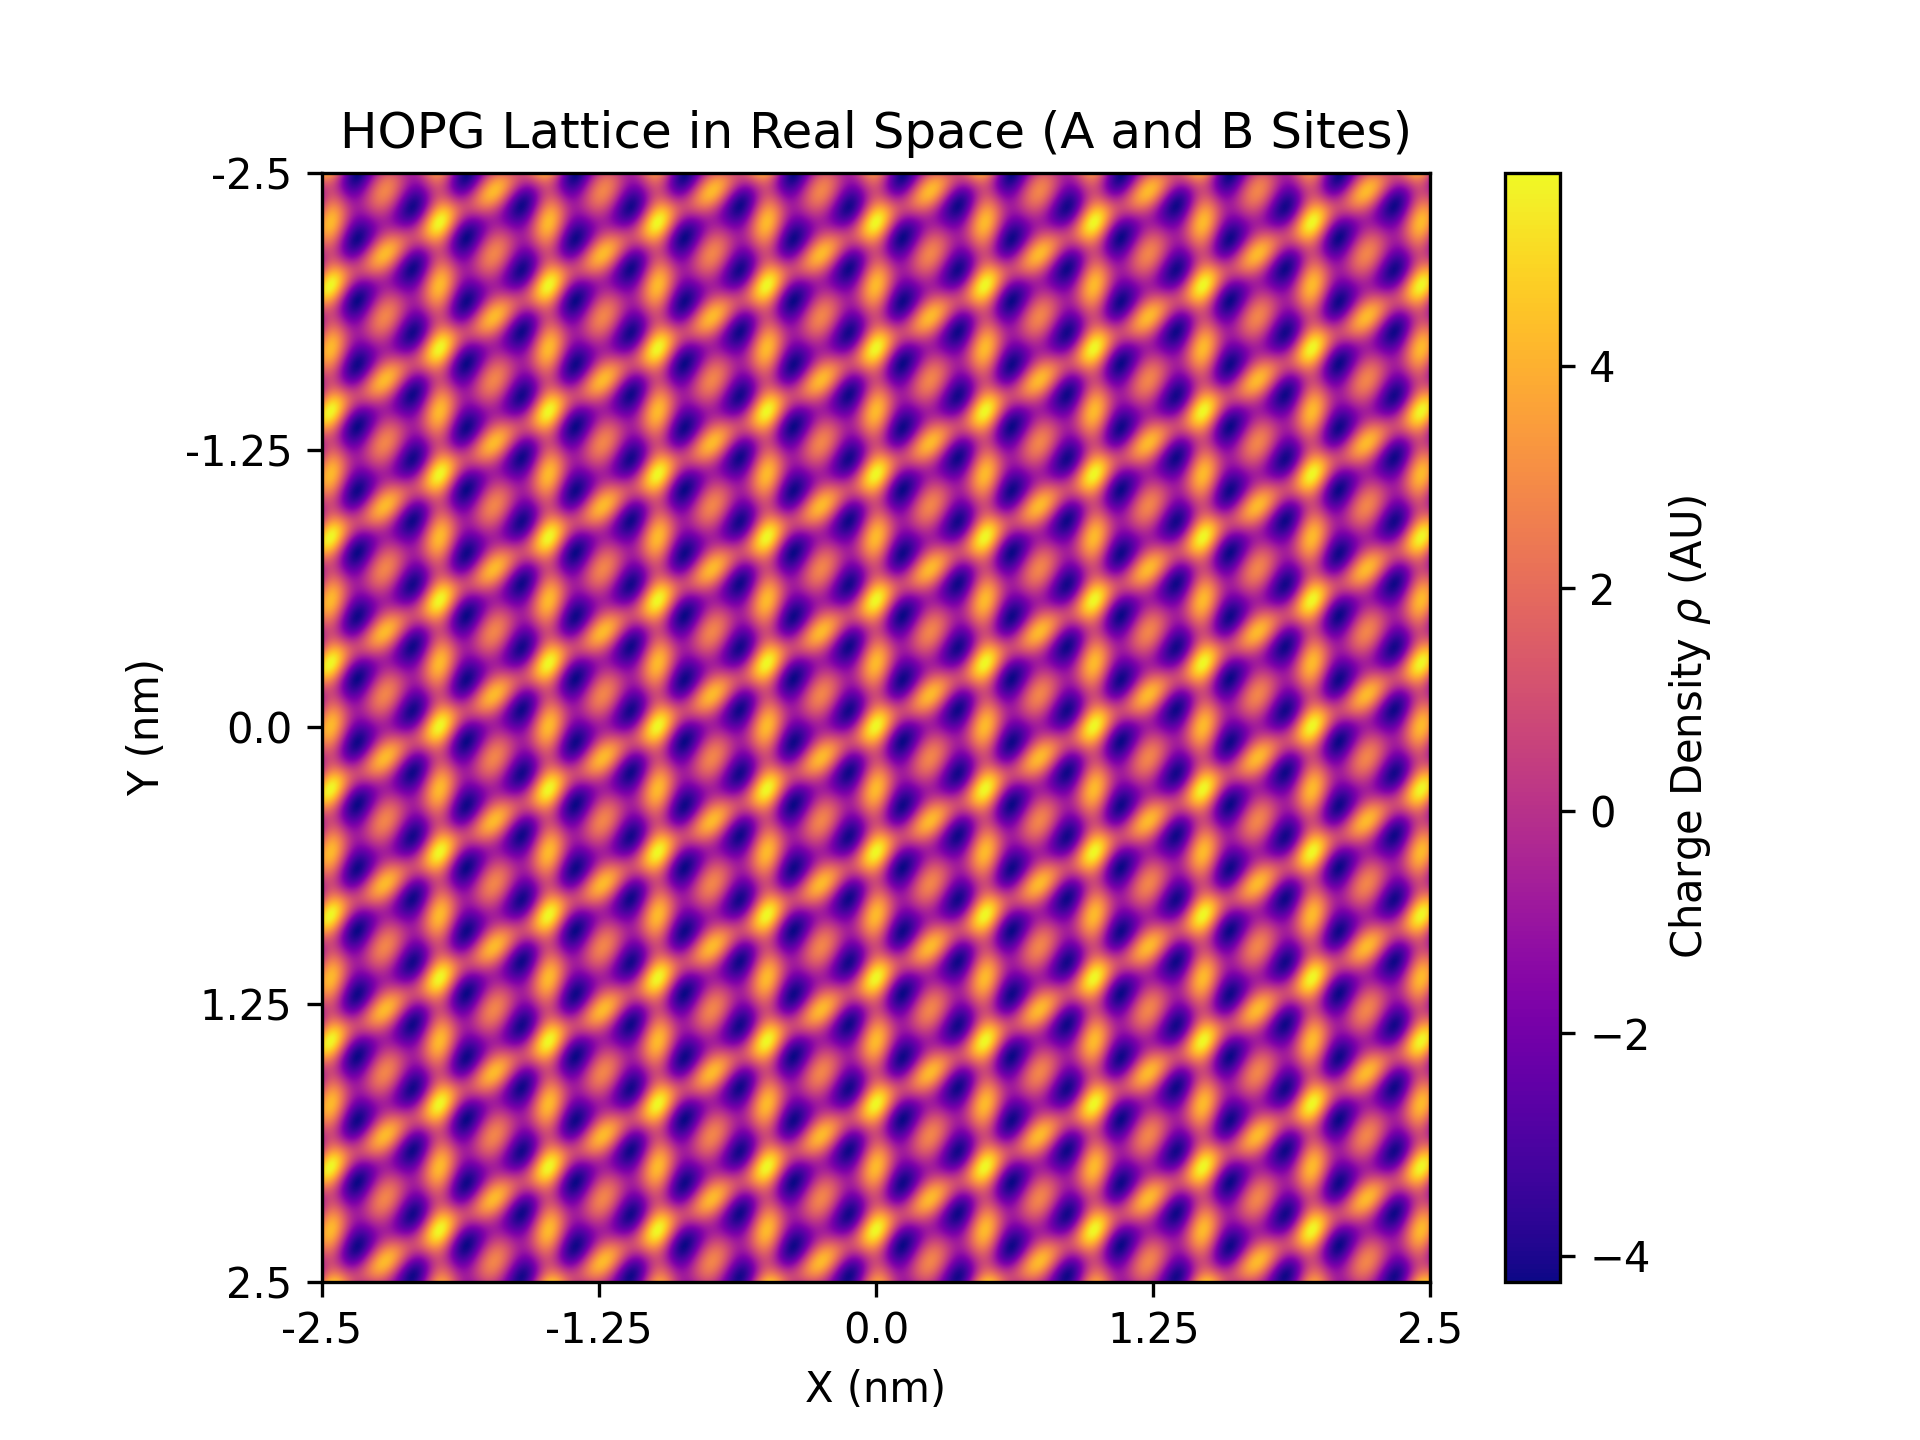
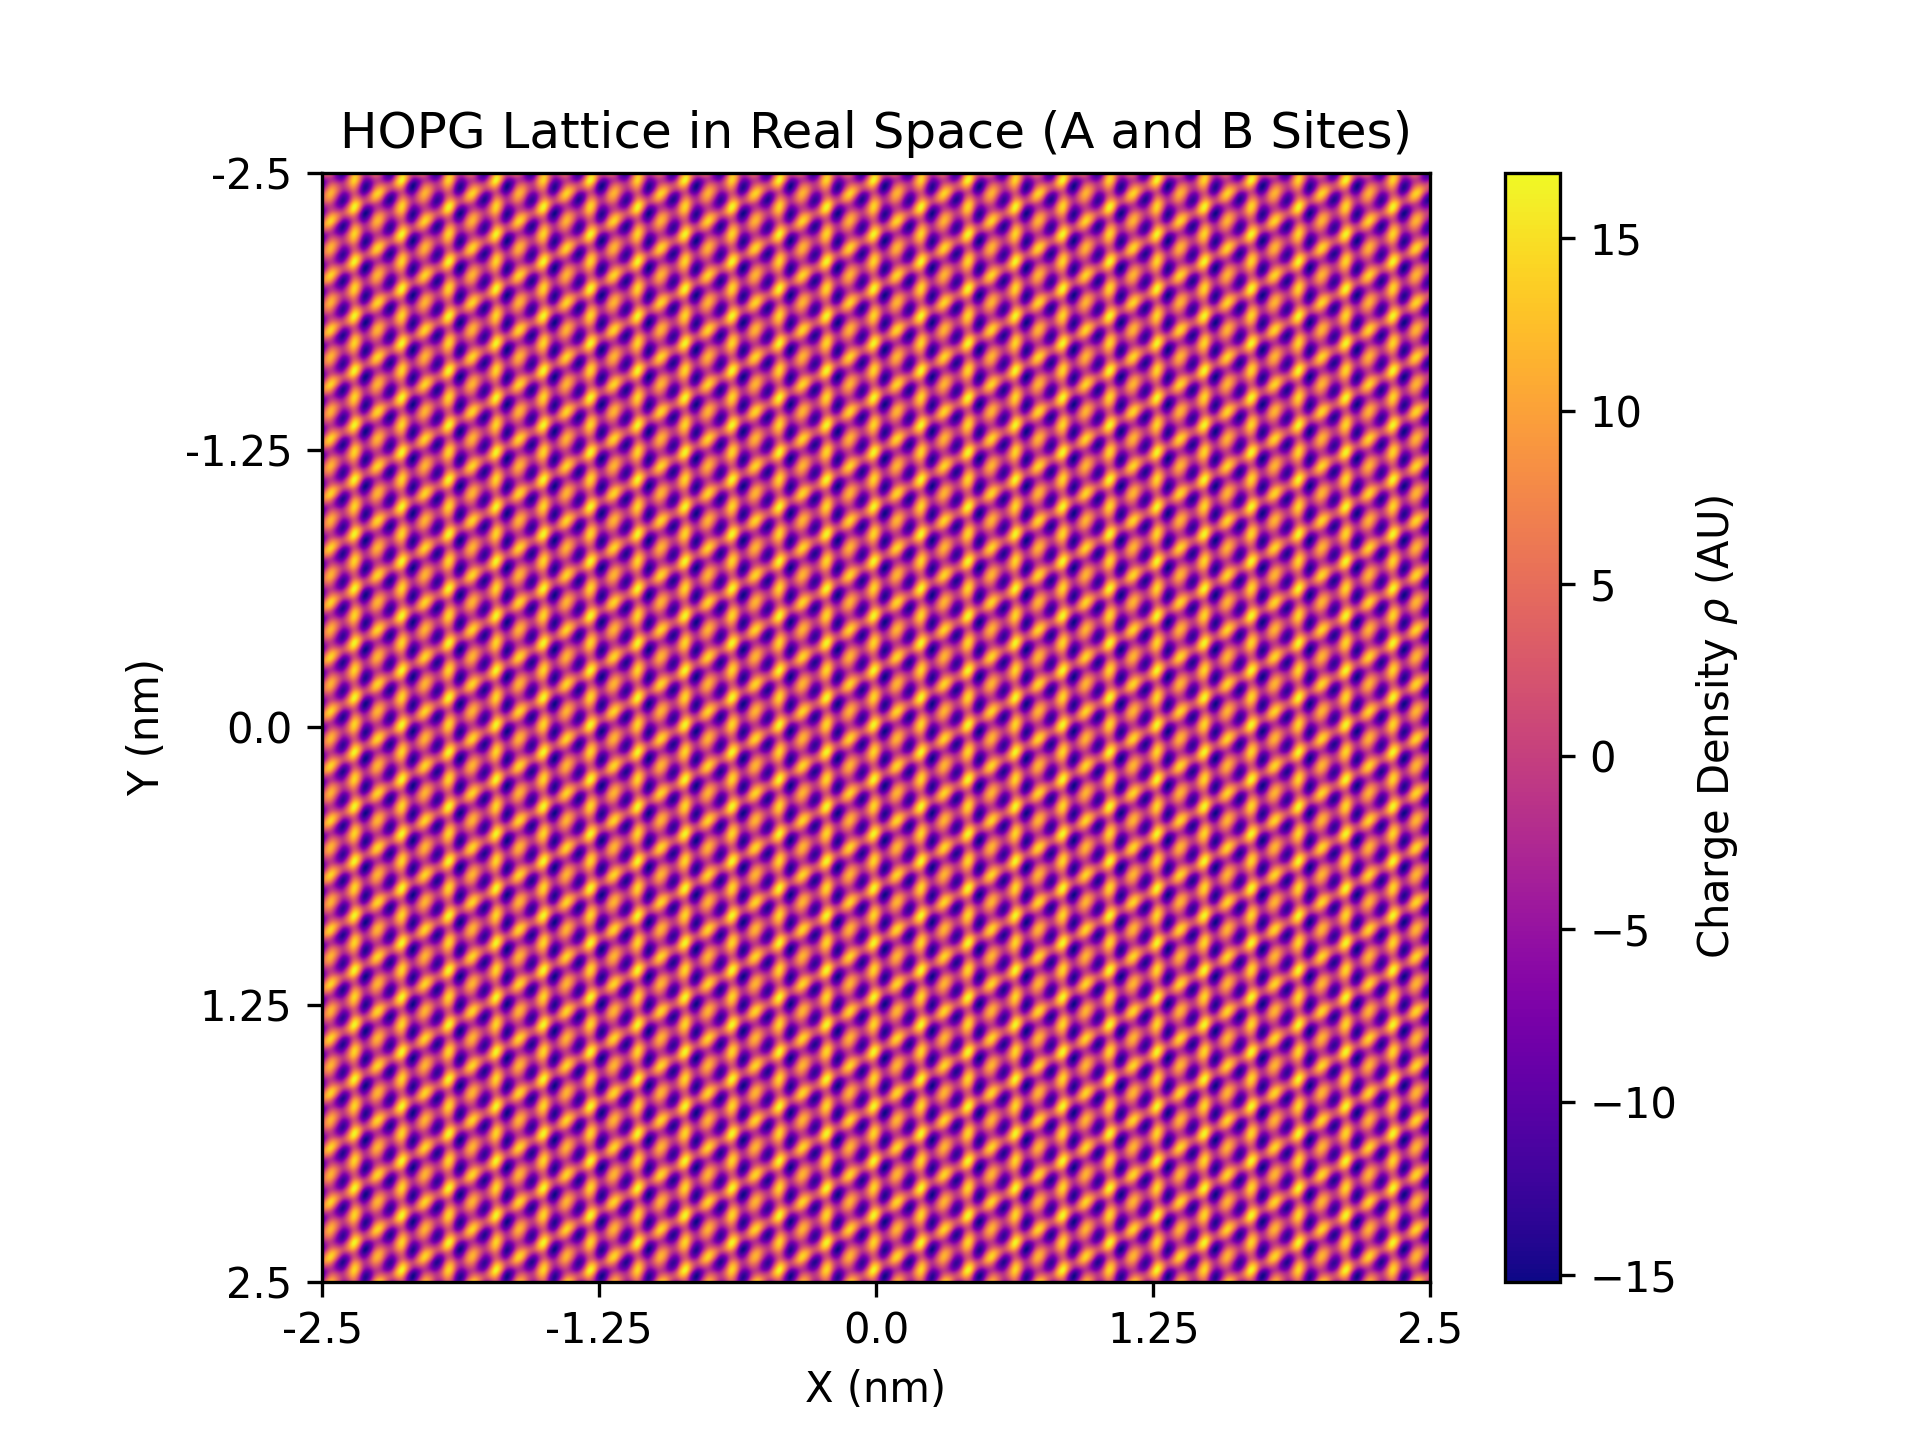
Added k-space evaluation and modified 2dfft

diff --git a/FFTSim.py b/FFTSim.py
@@ -32,8 +32,8 @@ def simulate_hopg_lattice(n_harmonics, k, theta, real_space_size,order,n):
         P = P_n[i]
         # A-site contribution
         lattice_real_space += P * (np.cos(kx1 * X + ky1 * Y) + np.cos(kx2 * X + ky2 * Y))
-        # B-site contribution 
-        lattice_real_space += P/10 * (np.cos(kx1 * X + ky1 * Y + np.pi/3) + np.cos(kx2 * X + ky2 * Y + np.pi/3))
+        # B-site contribution with a phase shift
+        lattice_real_space += P * (np.cos(kx1 * X + ky1 * Y + np.pi/2) + np.cos(kx2 * X + ky2 * Y + np.pi/2))
 
     sigma = 10  # standard deviation for Gaussian smoothing
     gaussian_envelope = np.exp(-(X**2 + Y**2) / (2 * sigma**2))
@@ -66,26 +66,28 @@ def simulate_hopg_lattice(n_harmonics, k, theta, real_space_size,order,n):
     # Compute 2D FFT for reciprocal space
     lattice_reciprocal_space = np.fft.fftshift(np.fft.fft2(lattice_real_space_smooth))
     magnitude_reciprocal = np.abs(lattice_reciprocal_space)
-
     # Plot reciprocal space (2D FFT result)
     plt.title("Reciprocal Space (2D FFT of HOPG Lattice)")
     plt.imshow(np.log(1 + magnitude_reciprocal), cmap='plasma')  # 1 + data for contrast
     kx = np.fft.fftshift(np.fft.fftfreq(n, d=(x[1] - x[0])))
     ky = np.fft.fftshift(np.fft.fftfreq(n, d=(y[1] - y[0])))
-    plt.xticks(ticks=np.linspace(0, n, 5), labels=np.round(np.linspace(kx[0], kx[-1], 5), 2))
-    plt.yticks(ticks=np.linspace(0, n, 5), labels=np.round(np.linspace(ky[0], ky[-1], 5), 2))
-    plt.xlabel("kx (1/nm)")
-    plt.ylabel("ky (1/nm)")
+
+    plt.xlabel(r"$k_x$ (1/nm)")
+    plt.ylabel(r"$k_y$ (1/nm)")
+    plt.xlim(n//2-50,n//2+50)
+    plt.ylim(n//2-50,n//2+50)
+    plt.xticks(ticks=np.linspace(n//2-50, n//2+50, 5), labels=np.round(np.linspace(kx[n//2-50], kx[n//2+50], 5), 1))
+    plt.yticks(ticks=np.linspace(n//2-50, n//2+50, 5), labels=np.round(np.linspace(ky[n//2-50], ky[n//2+50], 5), 1))
     plt.colorbar(label='Intensity (AU)')
     plt.savefig(f"Produced_Plots/FFTSIM/HOPG_Lattice_Reciprocal_Space_{real_space_size}nm.png", dpi=300)
     plt.show()
 
 
 # Constants for HOPG lattice
-a = 2*0.246  # lattice constant for graphene in nm
-k = 2 * np.pi / a  # wave vector
-n_pts = 2000 # size of the simulation grid
-real_space_size = 5 # nm
+a = 0.246  # lattice constant for graphene in nm
+k = 4 * np.pi / (a*np.sqrt(3))  # wave vector
+n_pts = 1000 # size of the simulation grid
+real_space_size = 2 # nm
 theta = np.pi / 3  
-n_harmonics = 15  # number of harmonics to include in the lattice
-simulate_hopg_lattice(n_harmonics, k, theta, real_space_size,2,n_pts)
+n_harmonics = 20  # number of harmonics to include in the lattice
+simulate_hopg_lattice(n_harmonics, k, theta, real_space_size,5,n_pts)

diff --git a/kSpace.py b/kSpace.py
@@ -1,0 +1,41 @@
+import numpy as np
+import os
+
+# Define the directory containing the files
+directory_path = 'RawData/K_Vals'
+
+# Initialize an empty list to store the 4th column values
+fourth_column_values = []
+
+# Iterate over all files in the directory
+for filename in os.listdir(directory_path):
+    file_path = os.path.join(directory_path, filename)
+    # Open each file and read the lines
+    with open(file_path, 'r') as file:
+        for line in file:
+            # Split the line into columns
+            columns = line.split()
+            # Check if the line has at least 4 columns
+            if len(columns) >= 4:
+                
+                # Append the 4th column value to the list
+                fourth_column_values.append(columns[3])
+
+
+print(fourth_column_values)
+# Convert the list of strings to a list of floats
+fourth_column_values = [float(value) for value in fourth_column_values]
+
+# Calculate the mean
+mean_value = np.mean(fourth_column_values)
+
+# Calculate the standard error of the mean
+standard_error = np.std(fourth_column_values) / np.sqrt(len(fourth_column_values))
+# Print the results in scientific notation
+
+a = 0.2461e-9
+#k = 4 * np.pi / (a*np.sqrt(3))
+k = 2*np.pi/a
+print(f'Desired value: {k:.2e}')
+print(f"Mean: {mean_value:.2e}")
+print(f"Standard Error: {standard_error:.2e}")
